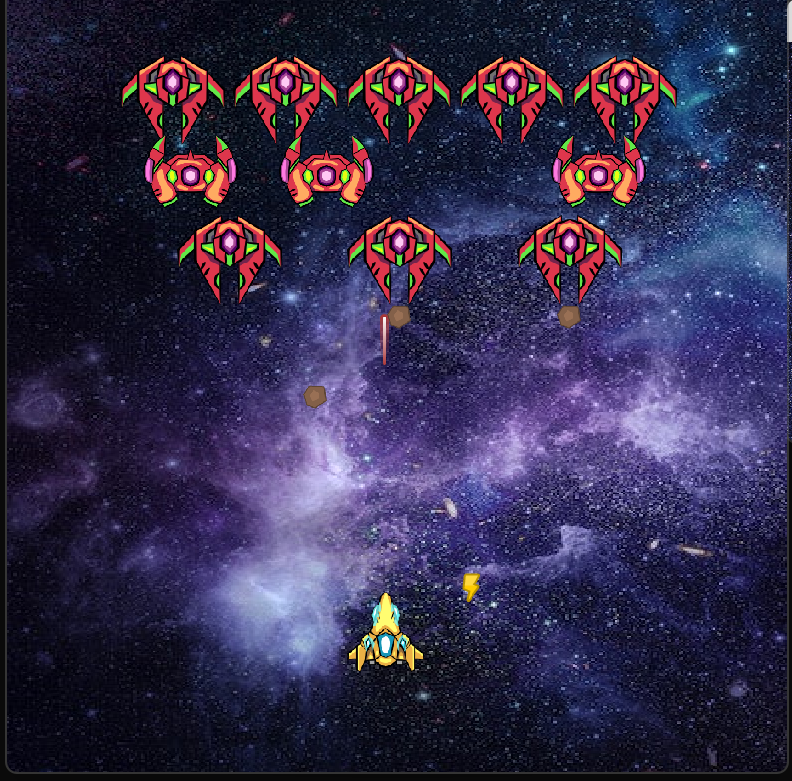
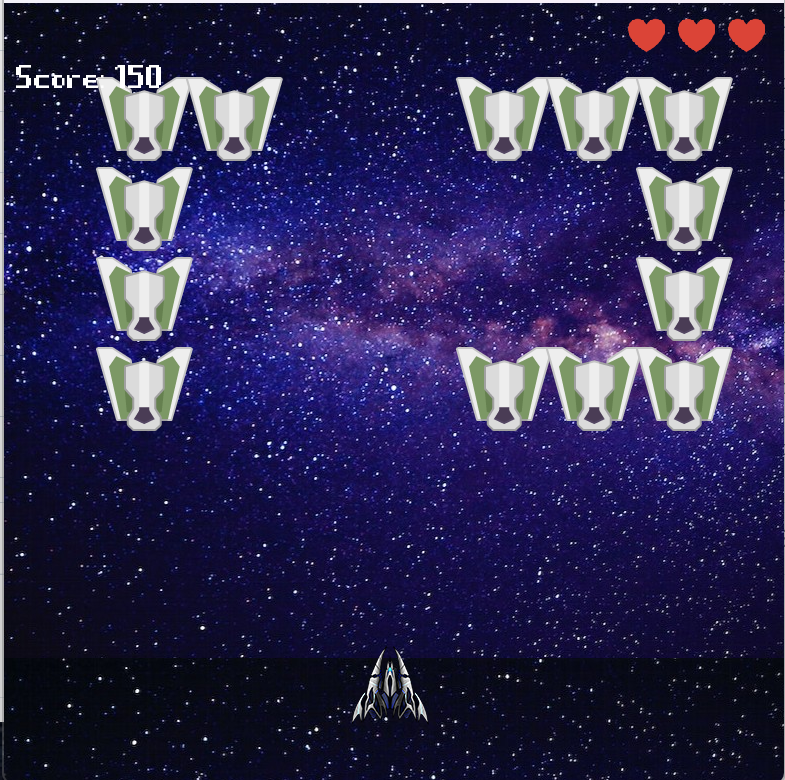
Updated author credit and screenshots

diff --git a/README.md b/README.md
@@ -182,6 +182,6 @@ Contributions are welcome! To contribute:
 
 ---
 
-**Built with 🚀 by Muhammad Salman Saleem**  
+**Built by Syed Mohammad Sajjad Zaidi**  
 *Feel free to star ⭐ this repository if you enjoyed the game!*
 